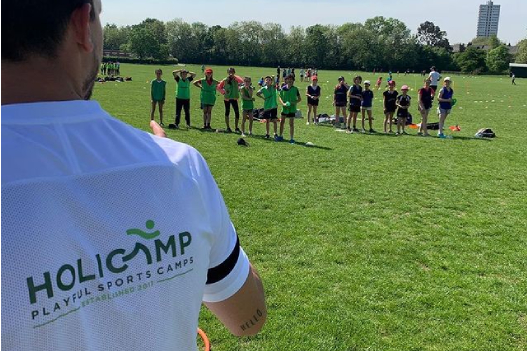
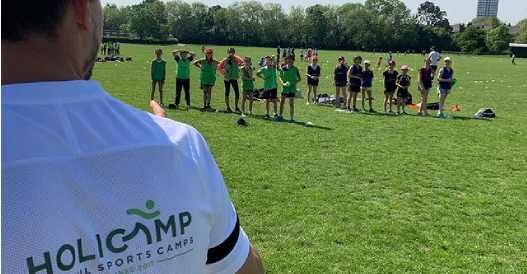
New OG image

diff --git a/_includes/head.html b/_includes/head.html
@@ -7,7 +7,7 @@
   <meta property="og:title" content="{{ site.title }}" />
   <meta property="og:image" content="{{ '/assets/img/holicamp_og.jpg' | relative_url }}" />
   <meta property="og:image:width" content="527" />
-  <meta property="og:image:height" content="351" />
+  <meta property="og:image:height" content="274" />
   <meta property="og:type" content="website" />
 
   <link rel="apple-touch-icon" sizes="180x180" href="{{ '/assets/apple-touch-icon.png' | relative_url }}">
